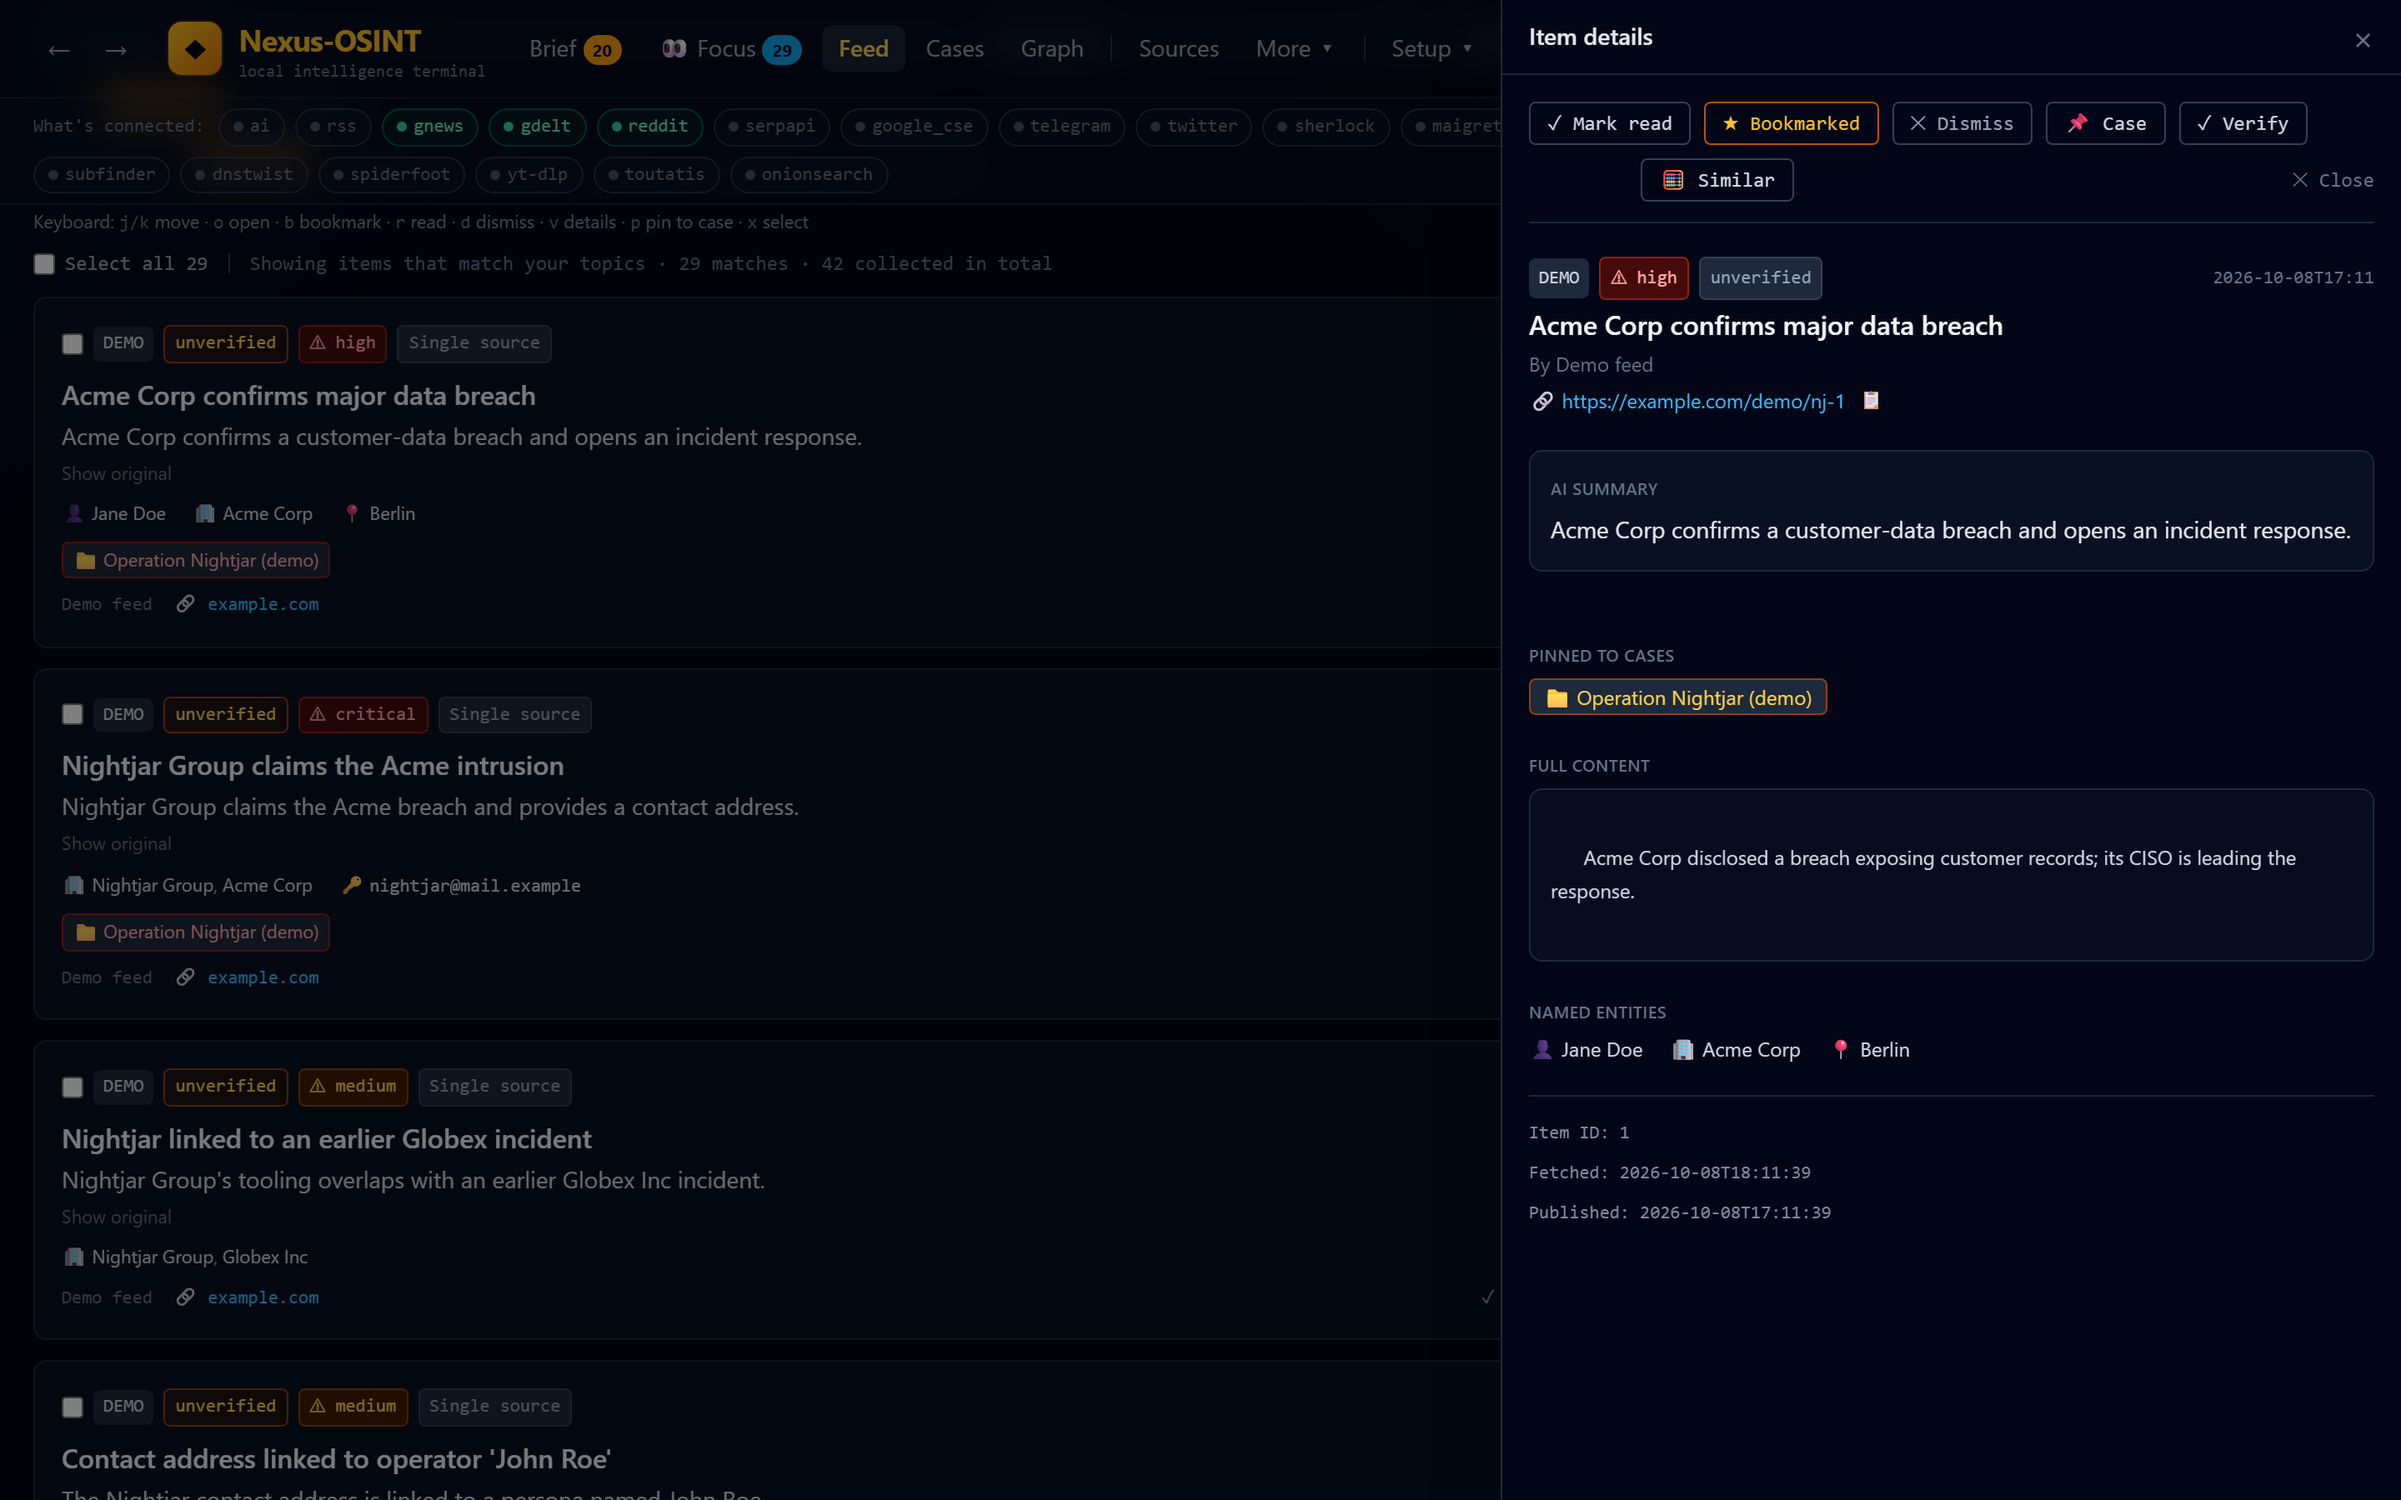
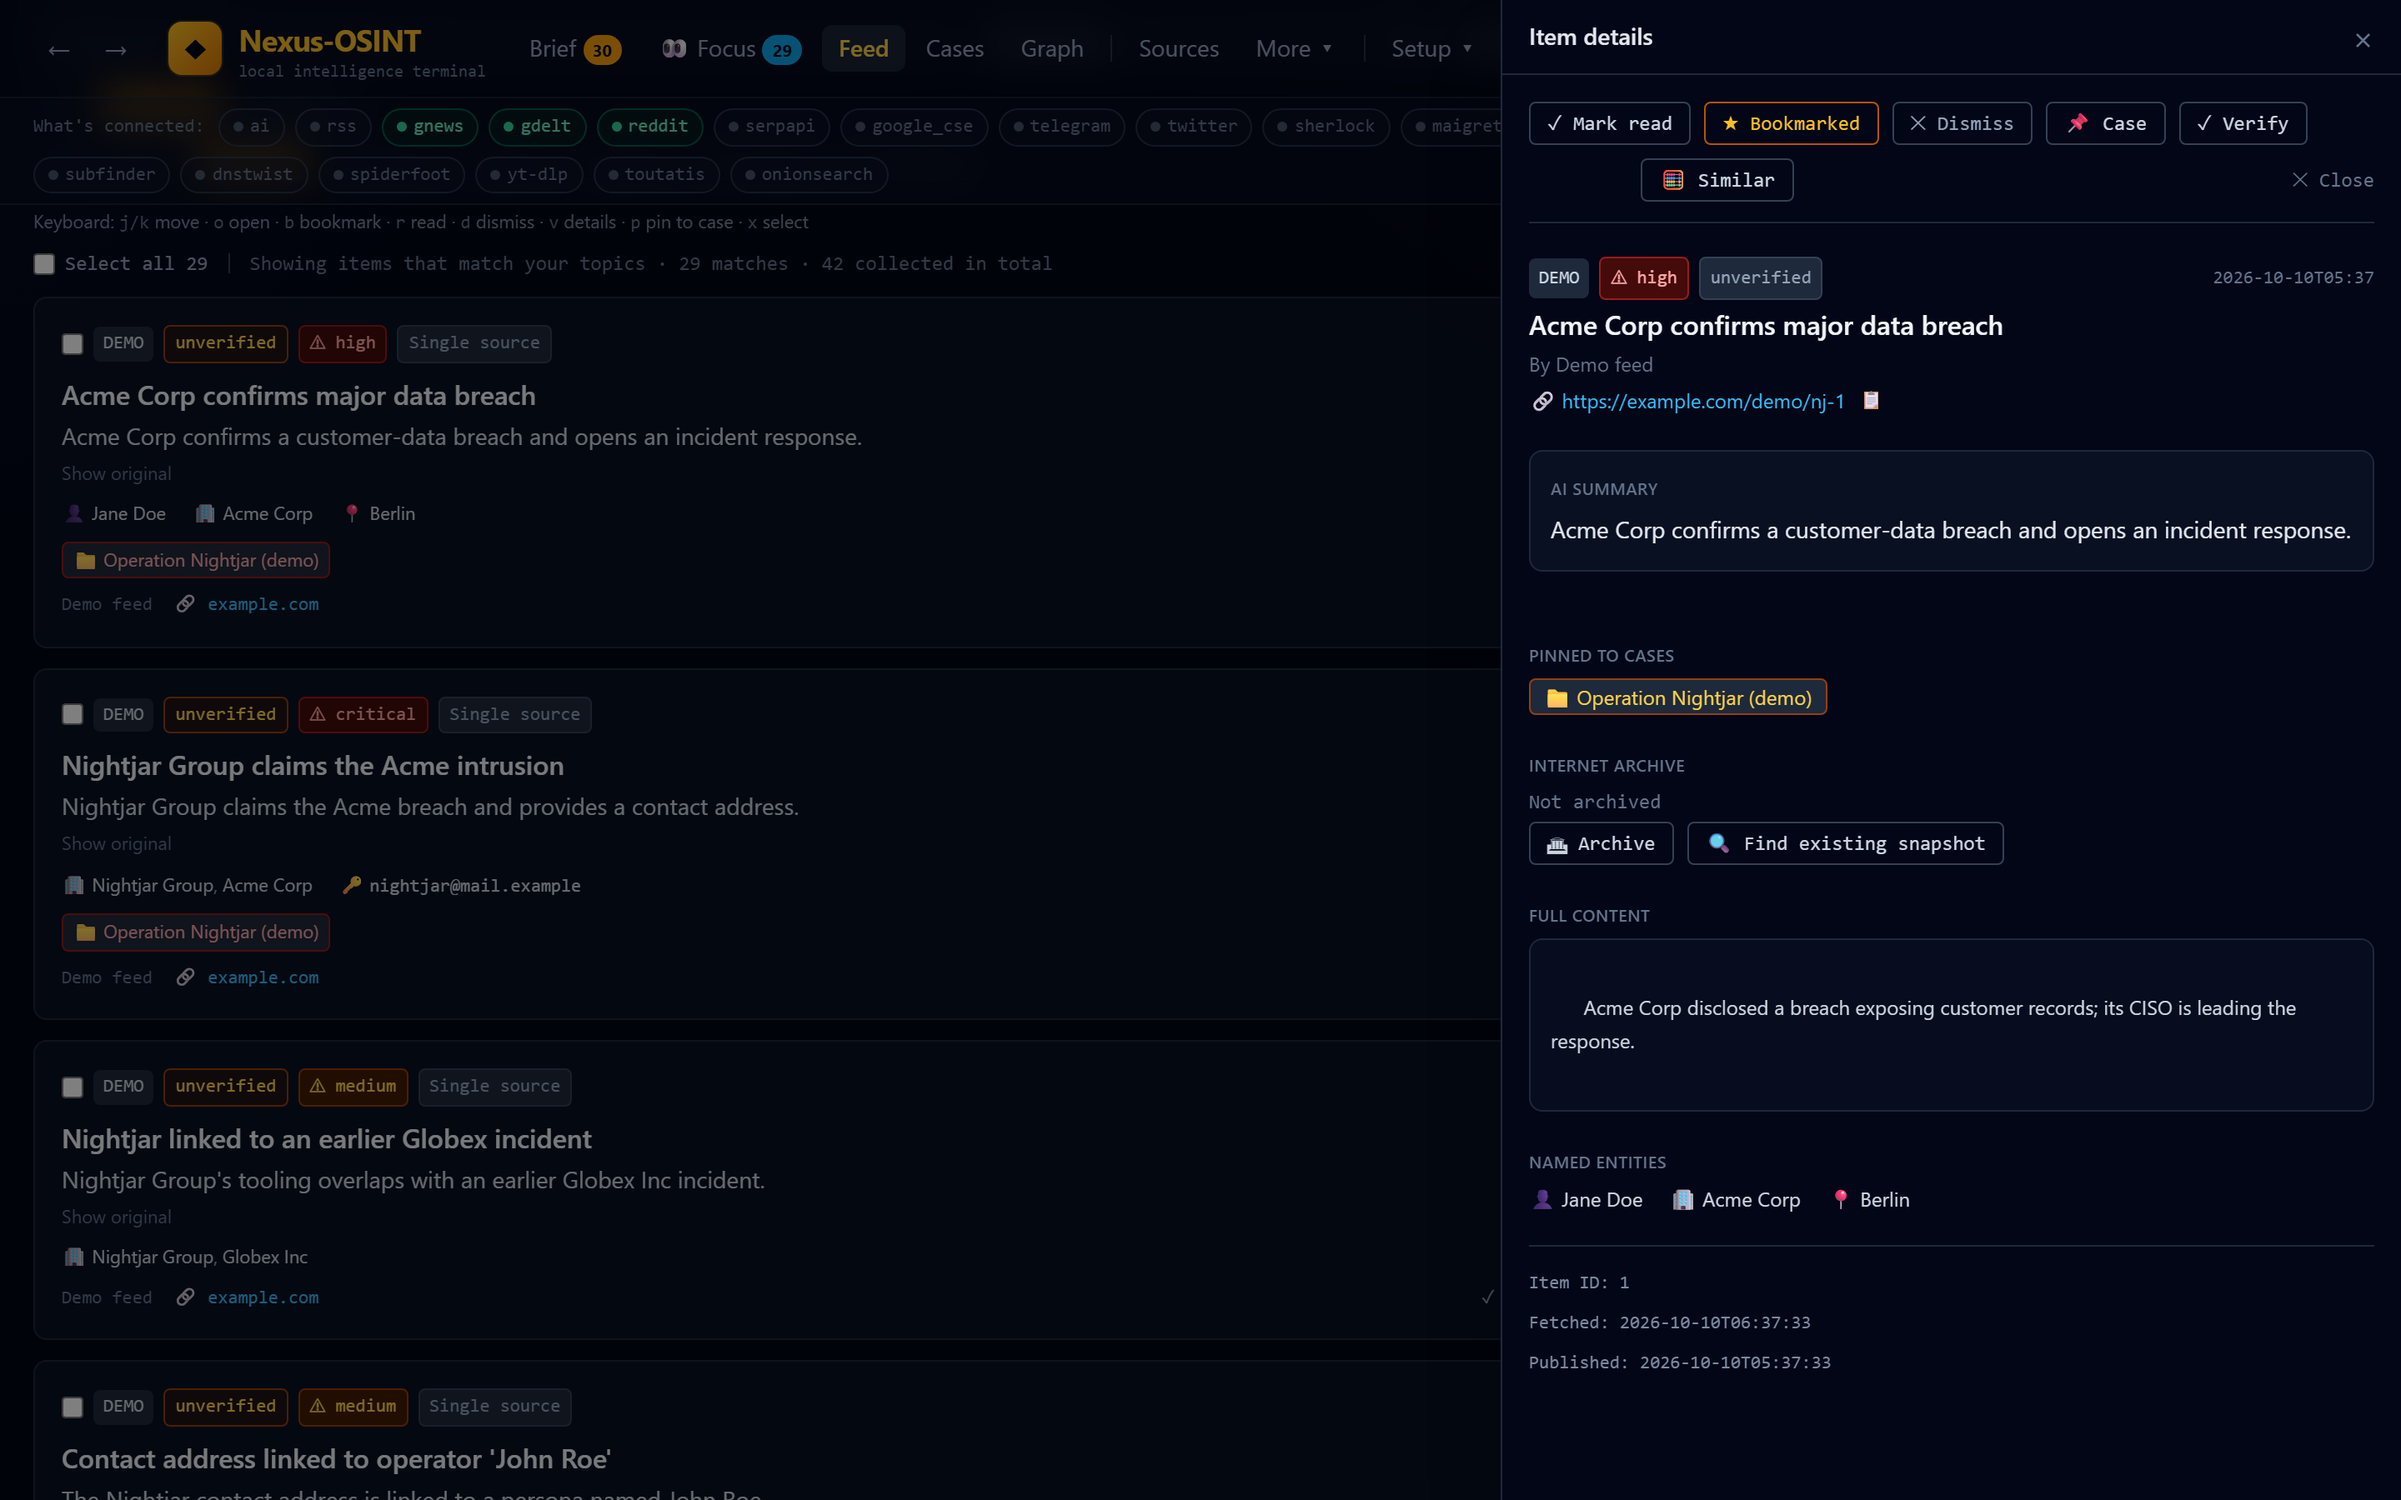
release: v1.0.0
- Version 1.0.0; CHANGELOG folds everything since the first draft into the
  1.0.0 entry (dated 2026-10-10).
- README screenshots regenerated from the fictional demo dataset (case
  Reports tab, Internet Archive box, offline styling).
- Dependabot skips praw and google-genai major bumps (verify against the
  live services first).

diff --git a/nexus/__init__.py b/nexus/__init__.py
@@ -1,3 +1,3 @@
 """Nexus-OSINT — local-first open-source intelligence platform."""
 
-__version__ = "0.1.0"
+__version__ = "1.0.0"

diff --git a/CHANGELOG.md b/CHANGELOG.md
@@ -6,6 +6,10 @@ to [Semantic Versioning](https://semver.org/).
 
 ## [Unreleased]
 
+## [1.0.0] - 2026-10-10
+
+First tagged release.
+
 ### Added
 - **Connect Gmail** for the daily brief: OAuth 2.0 with PKCE and the
   `gmail.send` scope only (no password, cannot read mail), using the
@@ -47,40 +51,6 @@ to [Semantic Versioning](https://semver.org/).
   report, and the email can link or attach it.
 - Egress allow-list entries for xAI, the configured local server, the configured
   SMTP host and the Resend / SendGrid APIs.
-
-### Changed
-- Code layout: `nexus/web/app.py` (about 4,800 lines) split into per-domain
-  FastAPI routers under `nexus/web/routers/` (app.py is now about 250 lines),
-  and `nexus/storage.py` turned into the `nexus/storage/` package with
-  re-exports. No behaviour change; a test pins the full route table and the
-  matching order of overlapping routes.
-- The default `AI_PROVIDER` is now `auto` (was `anthropic`). Explicit choices keep
-  working; unknown values fall back to `auto`.
-- Documentation reorganized: the feature catalogue moved to `docs/FEATURES.md`,
-  the project overview to `docs/OVERVIEW.md`, and the README rewritten around
-  architecture and engineering trade-offs.
-- **Code-quality gates**: `pyproject.toml` now holds project metadata and the
-  ruff, mypy and pytest configuration. CI gains `lint` (ruff) and `types` (mypy)
-  jobs, a `.pre-commit-config.yaml` provides local hooks, and Dependabot checks
-  pip, npm and GitHub Actions weekly (Tailwind major versions are ignored: v4 is
-  a different toolchain). The codebase was brought to zero ruff and mypy
-  findings with no behaviour change: import order, `datetime.UTC`, silent
-  `except: pass` blocks now log at debug level, a mutable default argument, an
-  unresolved `markupsafe` annotation and an unreferenced background task.
-
-### Fixed
-- The automatic-scan background thread never ran: `@asynccontextmanager` was
-  applied to the scan loop instead of the app lifespan. The scheduler (scans,
-  daily reports and the email brief) now runs as intended.
-
-### Removed
-- `docs/INVESTIGATOR_PLAN.md`; its remaining items moved to `docs/ROADMAP.md`.
-
-## [1.0.0]
-
-First tagged release.
-
-### Added
 - **Collection**: RSS, keyless Google News and Reddit search, GDELT; optional
   Twitter/X, Telegram, SERPAPI and Google Custom Search; user-defined JSON API
   sources with an AI source planner and Auto-Adapt self-healing; wrappers for
@@ -107,13 +77,39 @@ First tagged release.
 - **Packaging and quality**: Docker image, Windows installer (PyInstaller + Inno
   Setup), per-OS launcher scripts, pytest suite and GitHub Actions CI.
 
+### Changed
+- Code layout: `nexus/web/app.py` (about 4,800 lines) split into per-domain
+  FastAPI routers under `nexus/web/routers/` (app.py is now about 250 lines),
+  and `nexus/storage.py` turned into the `nexus/storage/` package with
+  re-exports. No behaviour change; a test pins the full route table and the
+  matching order of overlapping routes.
+- The default `AI_PROVIDER` is now `auto` (was `anthropic`). Explicit choices keep
+  working; unknown values fall back to `auto`.
+- Documentation reorganized: the feature catalogue moved to `docs/FEATURES.md`,
+  the project overview to `docs/OVERVIEW.md`, and the README rewritten around
+  architecture and engineering trade-offs.
+- **Code-quality gates**: `pyproject.toml` now holds project metadata and the
+  ruff, mypy and pytest configuration. CI gains `lint` (ruff) and `types` (mypy)
+  jobs, a `.pre-commit-config.yaml` provides local hooks, and Dependabot checks
+  pip, npm and GitHub Actions weekly (Tailwind major versions are ignored: v4 is
+  a different toolchain). The codebase was brought to zero ruff and mypy
+  findings with no behaviour change: import order, `datetime.UTC`, silent
+  `except: pass` blocks now log at debug level, a mutable default argument, an
+  unresolved `markupsafe` annotation and an unreferenced background task.
+
+### Fixed
+- The automatic-scan background thread never ran: `@asynccontextmanager` was
+  applied to the scan loop instead of the app lifespan. The scheduler (scans,
+  daily reports and the email brief) now runs as intended.
+- Dark-theme text contrast raised to meet WCAG AA; dialog semantics and focus
+  return added to the item drawer.
+
+### Removed
+- `docs/INVESTIGATOR_PLAN.md`; its remaining items moved to `docs/ROADMAP.md`.
+
 ### Security
 - Inline script embedding of collected data uses Jinja `|tojson` to prevent
   `</script>` breakout.
-
-### Fixed
-- Dark-theme text contrast raised to meet WCAG AA; dialog semantics and focus
-  return added to the item drawer.
 
 [Unreleased]: https://github.com/dorrachmani-dotcom/nexus-osint/compare/v1.0.0...HEAD
 [1.0.0]: https://github.com/dorrachmani-dotcom/nexus-osint/releases/tag/v1.0.0
